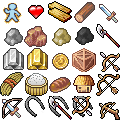
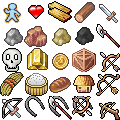
work on packet20 client side

Changed region(s): [[0.0, 0.4, 0.2, 0.6]]

diff --git a/src/main/java/de/dakror/arise/net/packet/Packet20Takeover.java b/src/main/java/de/dakror/arise/net/packet/Packet20Takeover.java
@@ -6,14 +6,16 @@ package de.dakror.arise.net.packet;
  */
 public class Packet20Takeover extends Packet
 {
-	int cityTakenOverId, stage, timeleft;
+	int cityTakenOverId, stage, timeleft, newUserId;
+	String newUsername;
 	
-	public Packet20Takeover(int cityTakenOverId, int stage, int timeleft)
+	public Packet20Takeover(int cityTakenOverId, int stage, int timeleft, int newUserId, String newUsername)
 	{
 		super(20);
 		this.cityTakenOverId = cityTakenOverId;
 		this.stage = stage;
 		this.timeleft = timeleft;
+		this.newUserId = newUserId;
 	}
 	
 	public Packet20Takeover(byte[] data)
@@ -24,12 +26,14 @@ public class Packet20Takeover extends Packet
 		cityTakenOverId = Integer.parseInt(parts[0]);
 		stage = Integer.parseInt(parts[1]);
 		timeleft = Integer.parseInt(parts[2]);
+		newUserId = Integer.parseInt(parts[3]);
+		newUsername = parts[4];
 	}
 	
 	@Override
 	protected byte[] getPacketData()
 	{
-		return (cityTakenOverId + ":" + stage + ":" + timeleft).getBytes();
+		return (cityTakenOverId + ":" + stage + ":" + timeleft + ":" + newUserId + ":" + newUsername).getBytes();
 	}
 	
 	public int getCityTakenOverId()
@@ -50,5 +54,15 @@ public class Packet20Takeover extends Packet
 	public int getTimeleft()
 	{
 		return timeleft;
+	}
+	
+	public int getNewUserId()
+	{
+		return newUserId;
+	}
+	
+	public String getNewUsername()
+	{
+		return newUsername;
 	}
 }

diff --git a/src/main/java/de/dakror/arise/game/world/World.java b/src/main/java/de/dakror/arise/game/world/World.java
@@ -23,6 +23,7 @@ import de.dakror.arise.net.packet.Packet04City;
 import de.dakror.arise.net.packet.Packet05Resources;
 import de.dakror.arise.net.packet.Packet07RenameCity;
 import de.dakror.arise.net.packet.Packet19Transfer;
+import de.dakror.arise.net.packet.Packet20Takeover;
 import de.dakror.arise.settings.CFG;
 import de.dakror.gamesetup.GameFrame;
 import de.dakror.gamesetup.ui.Component;
@@ -333,6 +334,18 @@ public class World extends MPLayer
 				components.add(new Transfer(getCityForId(packet.getCityFrom()), getCityForId(packet.getCityTo()), packet));
 				sortComponents();
 			}
+		}
+		if (p.getType() == PacketTypes.TAKEOVER)
+		{
+			Packet20Takeover packet = (Packet20Takeover) p;
+			
+			for (Component c : components)
+				if (c instanceof City && ((City) c).getId() == packet.getCityTakenOverId())
+				{
+					((City) c).updateTakeoverStage(packet.getStage(), packet.getTimeleft());
+					
+					if (packet.getNewUserId() != 0) ((City) c).setUser(packet.getNewUserId(), packet.getNewUsername());
+				}
 		}
 	}
 }

diff --git a/src/main/java/de/dakror/arise/server/DBManager.java b/src/main/java/de/dakror/arise/server/DBManager.java
@@ -680,9 +680,9 @@ public class DBManager
 			if (rs.getInt("TAKEOVER") > Const.CITY_TAKEOVERS)
 			{
 				execUpdate("UPDATE CITIES SET TAKEOVER = 0, TIMELEFT = 0, USER_ID = " + attUserId + " WHERE ID = " + cityTakenOverId);
-				return new Packet20Takeover(cityTakenOverId, -1, 0);
+				return new Packet20Takeover(cityTakenOverId, -1, 0, attUserId, getUsersFromWebsite().getString(attUserId + ""));
 			}
-			else return new Packet20Takeover(cityTakenOverId, rs.getInt("TAKEOVER"), timeleft);
+			else return new Packet20Takeover(cityTakenOverId, rs.getInt("TAKEOVER"), timeleft, 0, "");
 		}
 		catch (Exception e)
 		{

diff --git a/src/main/java/de/dakror/arise/game/world/City.java b/src/main/java/de/dakror/arise/game/world/City.java
@@ -32,6 +32,8 @@ public class City extends ClickableComponent
 	int id;
 	int level;
 	int userId;
+	int takeoverStage;
+	int timeleft;
 	
 	public Packet05Resources resourcePacket;
 	
@@ -140,6 +142,18 @@ public class City extends ClickableComponent
 	public int getUserId()
 	{
 		return userId;
+	}
+	
+	public void setUser(int userId, String username)
+	{
+		this.userId = userId;
+		this.username = username;
+	}
+	
+	public void updateTakeoverStage(int takeoverStage, int timeleft)
+	{
+		this.takeoverStage = takeoverStage;
+		this.timeleft = timeleft;
 	}
 	
 	@Override
